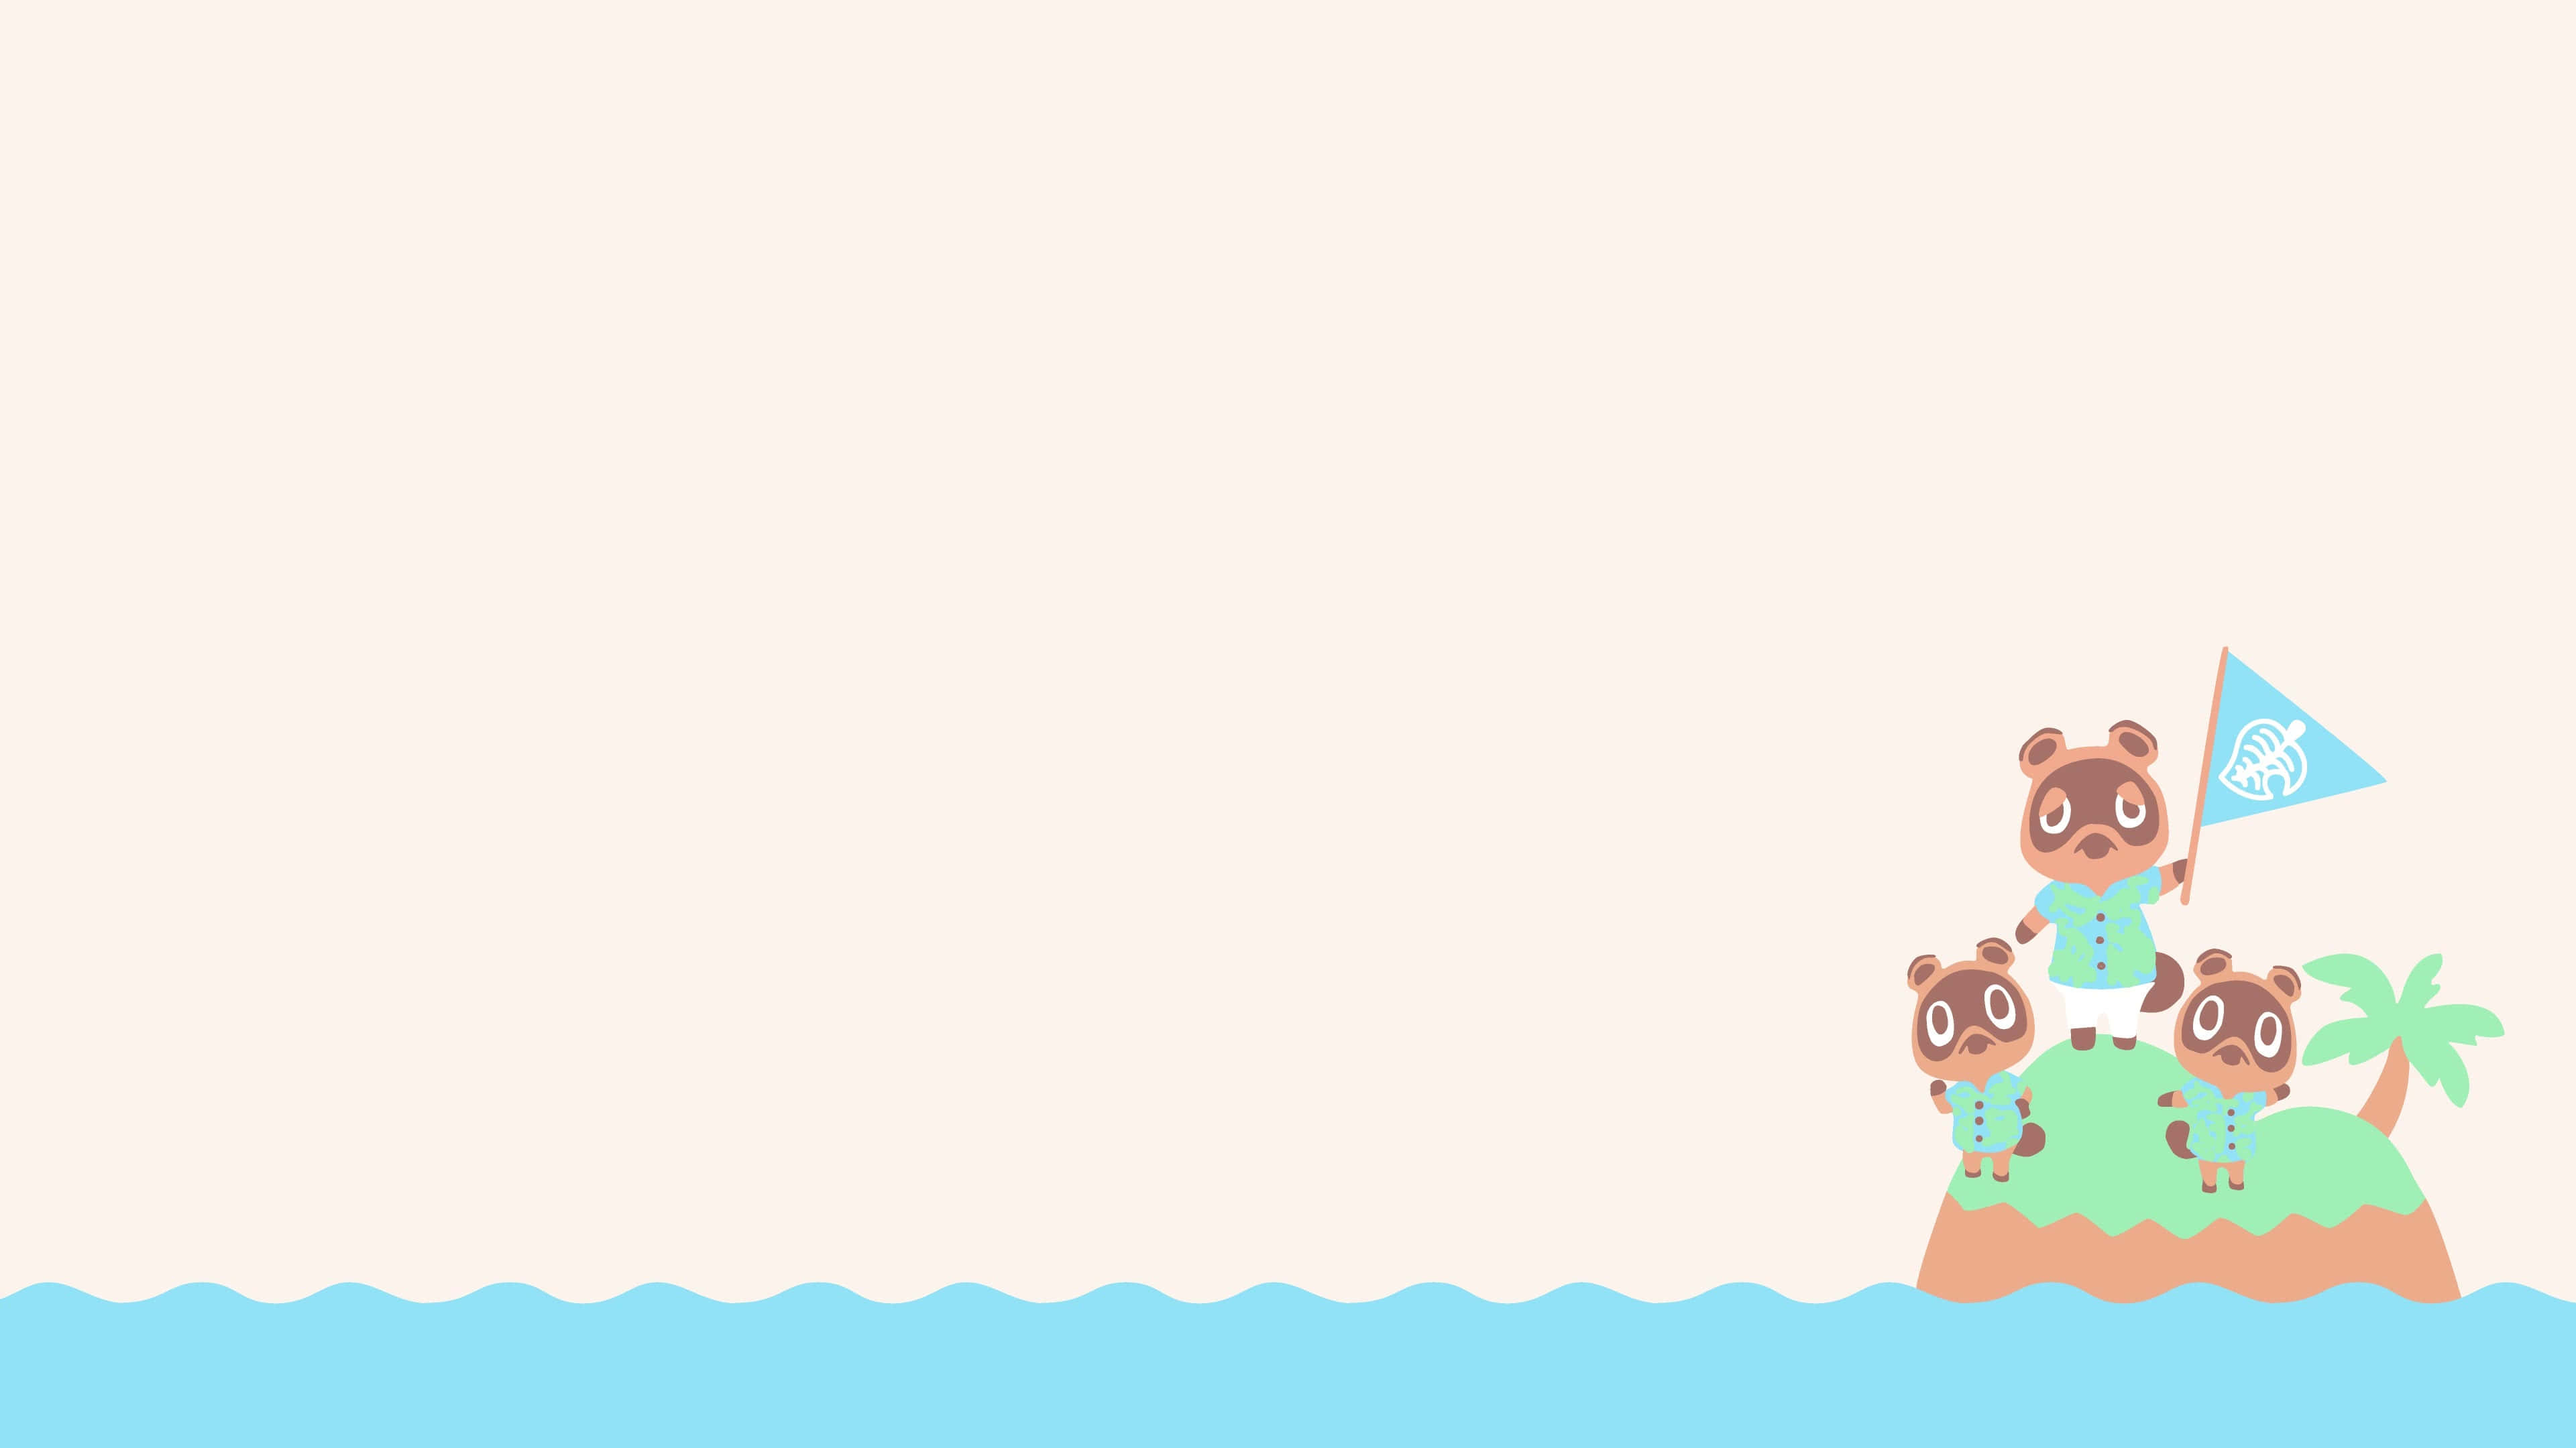
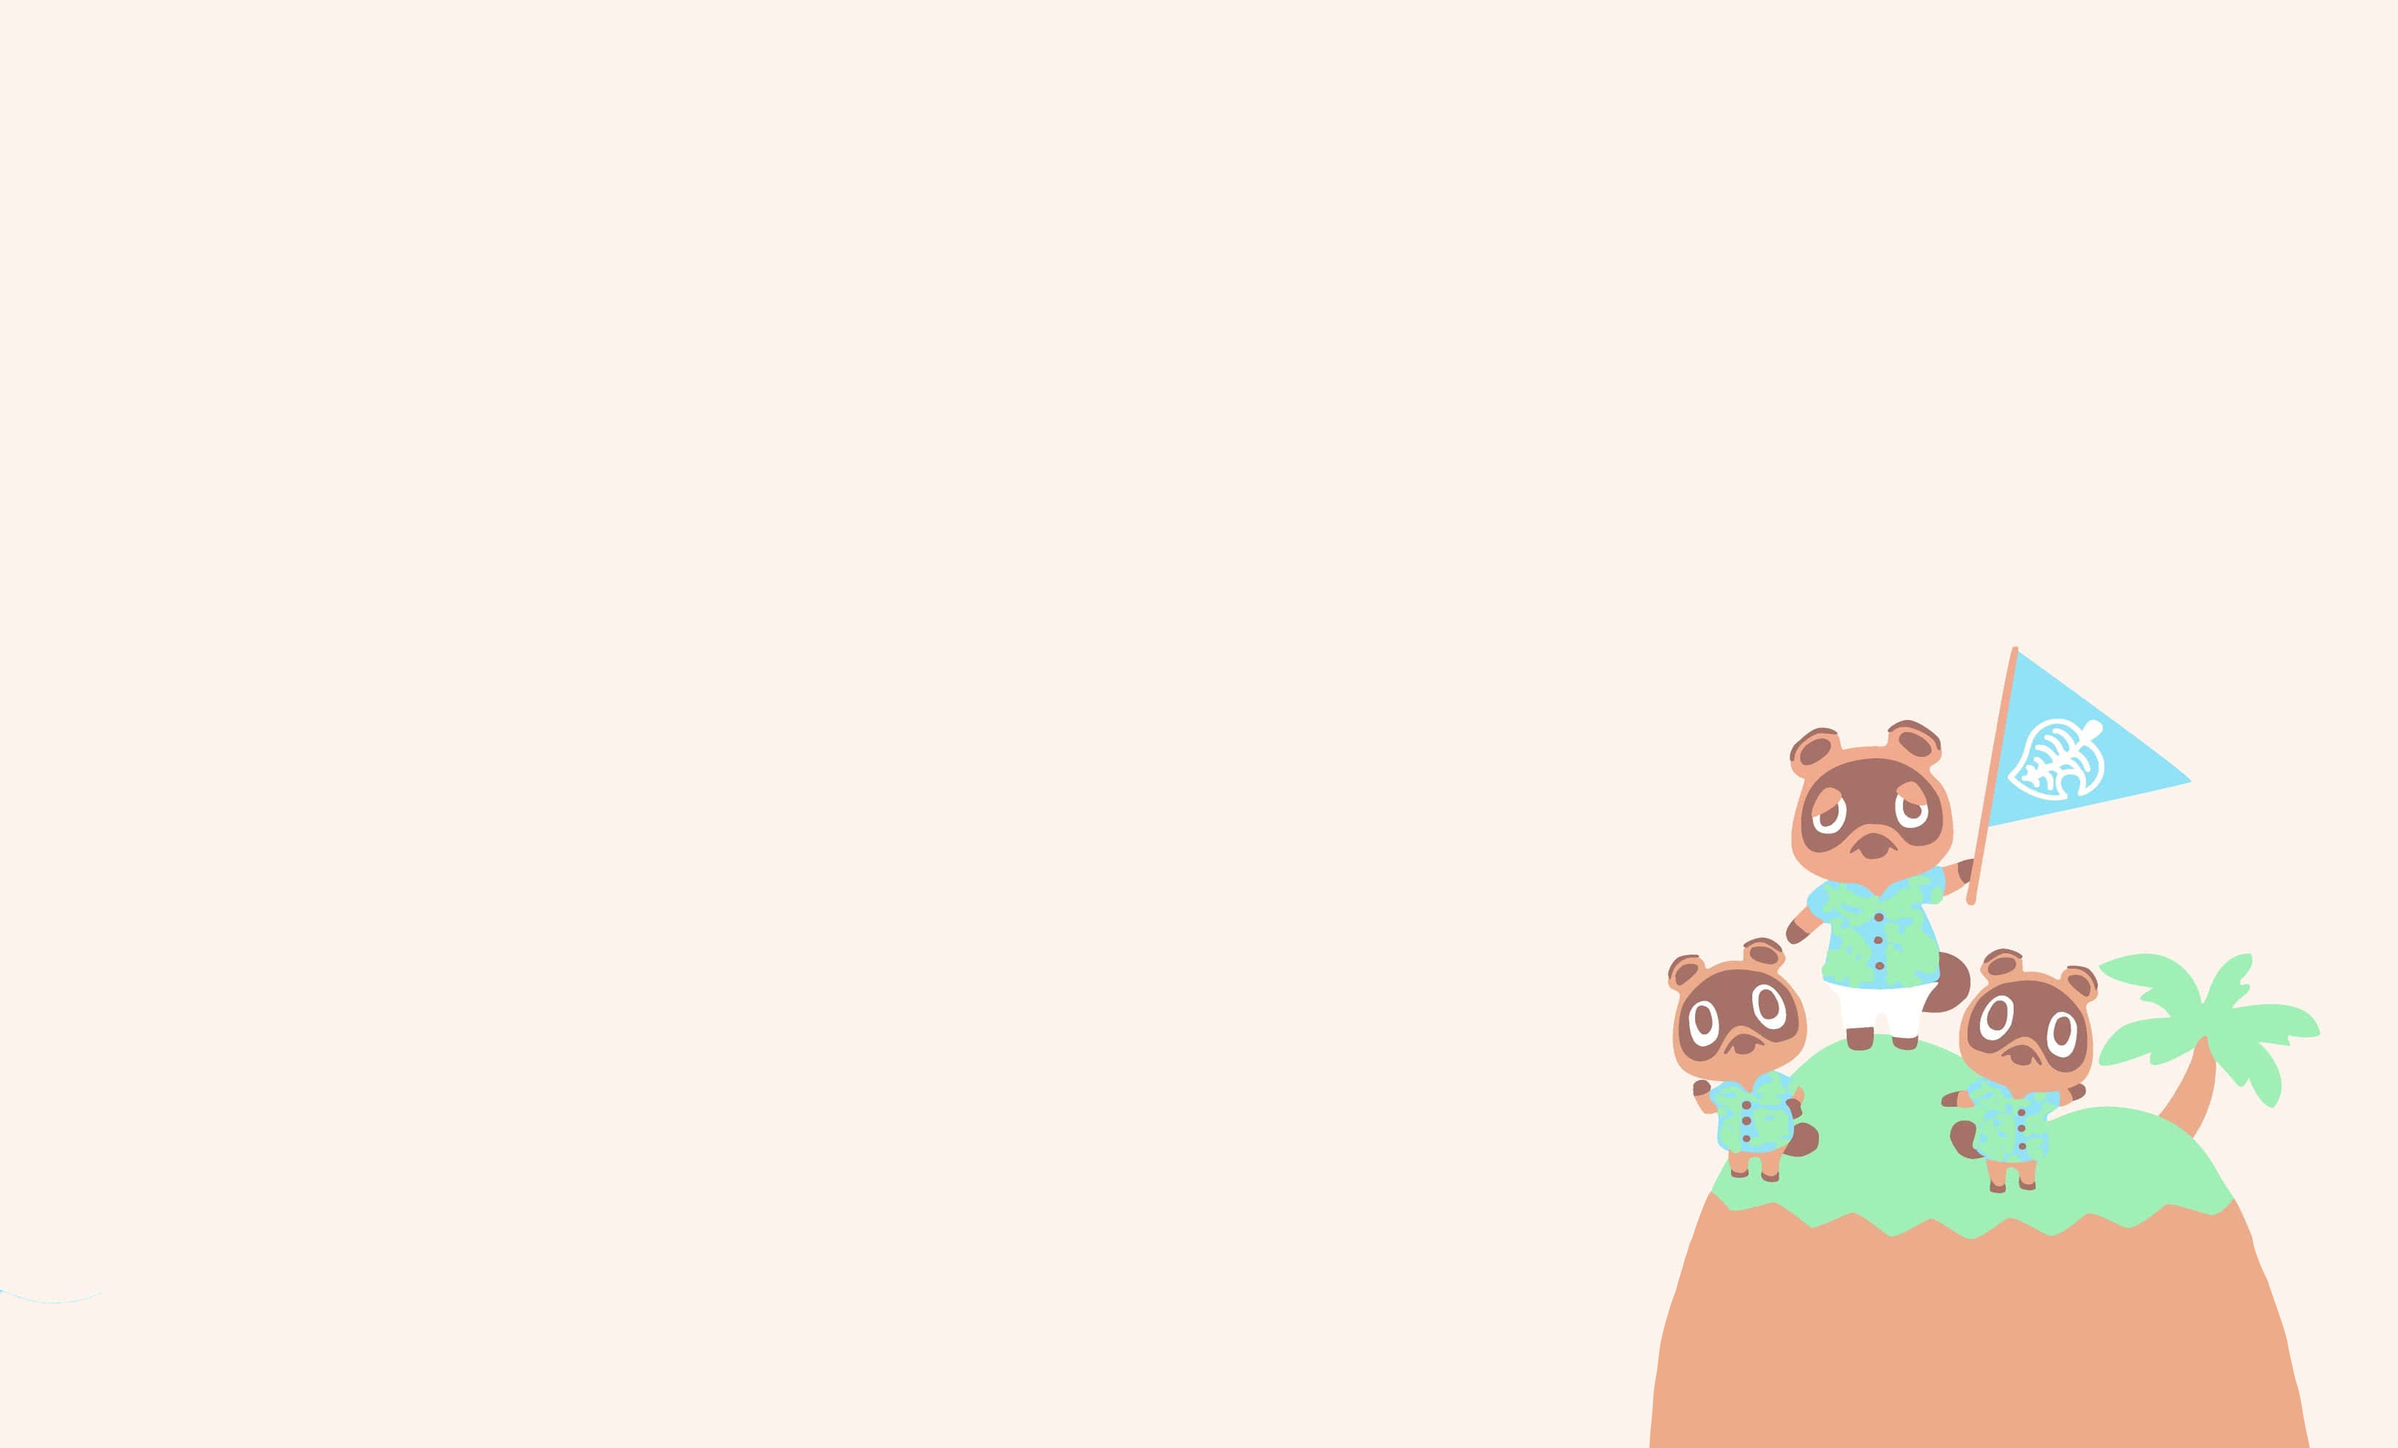
Add svg wave animation to home page

Changed region(s): [[0.0, 0.4343, 1.0, 1.0]]

diff --git a/src/pages/index.js b/src/pages/index.js
@@ -8,9 +8,27 @@ const IndexPage = () => (
         <h2>Atomic Design <br/>System</h2>
         <p>Reusable components with a cute Animal Crossing theme. Build with React and Gatsby.js</p>
         <Link to="/page-2/"><button>Click Me</button></Link>
+        {/* <div/>
+        <svg class="hat" width="200" height="160" viewBox="0 0 200 78" fill="none" xmlns="http://www.w3.org/2000/svg">
+          <path  d="M55.9999 19.5002C50.4999 18.0002 11.9997 12.0002 7.49979 39.0002C3.99957 60.0011 21.4686 70.5002 37.4997 70.5002C50.5 70.5002 65.4999 61.5002 92.4999 39.0002C108.5 24.5002 125.5 13.3337 138.5 9.00018C151.5 4.66669 193.5 7 192 39.0002C189.578 58.075 168.971 66.0267 150.5 62C138.468 59.3771 127 47.4998 121 38" stroke="#BA6624" stroke-width="14"/>
+          <path  d="M90.5 37C88 25.9998 85.5 4.39285 71 7.49997C63.6448 9.07607 59 15 53.5 15C44.5 15 38 8.14286 30 15C24.4 19.8 13 55.5 8.5 74.5" transform="translate(40, -30)" stroke="#BA6624" stroke-width="14" stroke-linecap="square"/>
+        </svg> */}
+
+        <svg width="100%" height="120" fill="none" xmlns="http://www.w3.org/2000/svg">
+          <path fill="#A3E0F4">
+           <animate repeatCount="indefinite" fill="freeze" attributeName="d" dur="10s" values="M0 25.9086C277 84.5821 433 65.736 720 25.9086C934.818 -3.9019 1214.06 -5.23669 1442 8.06597C2079 45.2421 2208 63.5007 2560 25.9088V171.91L0 171.91V25.9086Z;
+
+            M0 86.3149C316 86.315 444 159.155 884 51.1554C1324 -56.8446 1320.29 34.1214 1538 70.4063C1814 116.407 2156 188.408 2560 86.315V232.317L0 232.316V86.3149Z;
+
+            M0 53.6584C158 11.0001 213 0 363 0C513 0 855.555 115.001 1154 115.001C1440 115.001 1626 -38.0004 2560 53.6585V199.66L0 199.66V53.6584Z;
+        
+            M0 25.9086C277 84.5821 433 65.736 720 25.9086C934.818 -3.9019 1214.06 -5.23669 1442 8.06597C2079 45.2421 2208 63.5007 2560 25.9088V171.91L0 171.91V25.9086Z"/>
+        </path>
+        </svg>
+
       </div>
     </div>
   </div>
+  
 )
-
 export default IndexPage

diff --git a/src/layouts/index.css b/src/layouts/index.css
@@ -99,6 +99,21 @@ a {
   box-shadow: 0 4px 10px rgba(0,0,0, 0.25);
 }
 
+.Hero svg {
+  position: absolute;
+  bottom: 0;
+  left: 0;
+}
+
+/* .Hero svg .hat {
+  z-index: 100;
+  margin-top: 40px;
+  stroke-width: 12px;
+  stroke-dasharray: 1000;
+  stroke-dashoffset: 1000;
+  animation: dash 4s ease-in forwards alternate;
+} */
+
 @media (max-width: 640px) {
   .HeroGroup {
     padding: 100px 20px;
@@ -122,5 +137,11 @@ a {
   100% {
     opacity: 1;
     transform: translateY(0);
+  }
+}
+
+@keyframes dash {
+  to {
+    stroke-dashoffset: 0;
   }
 }
